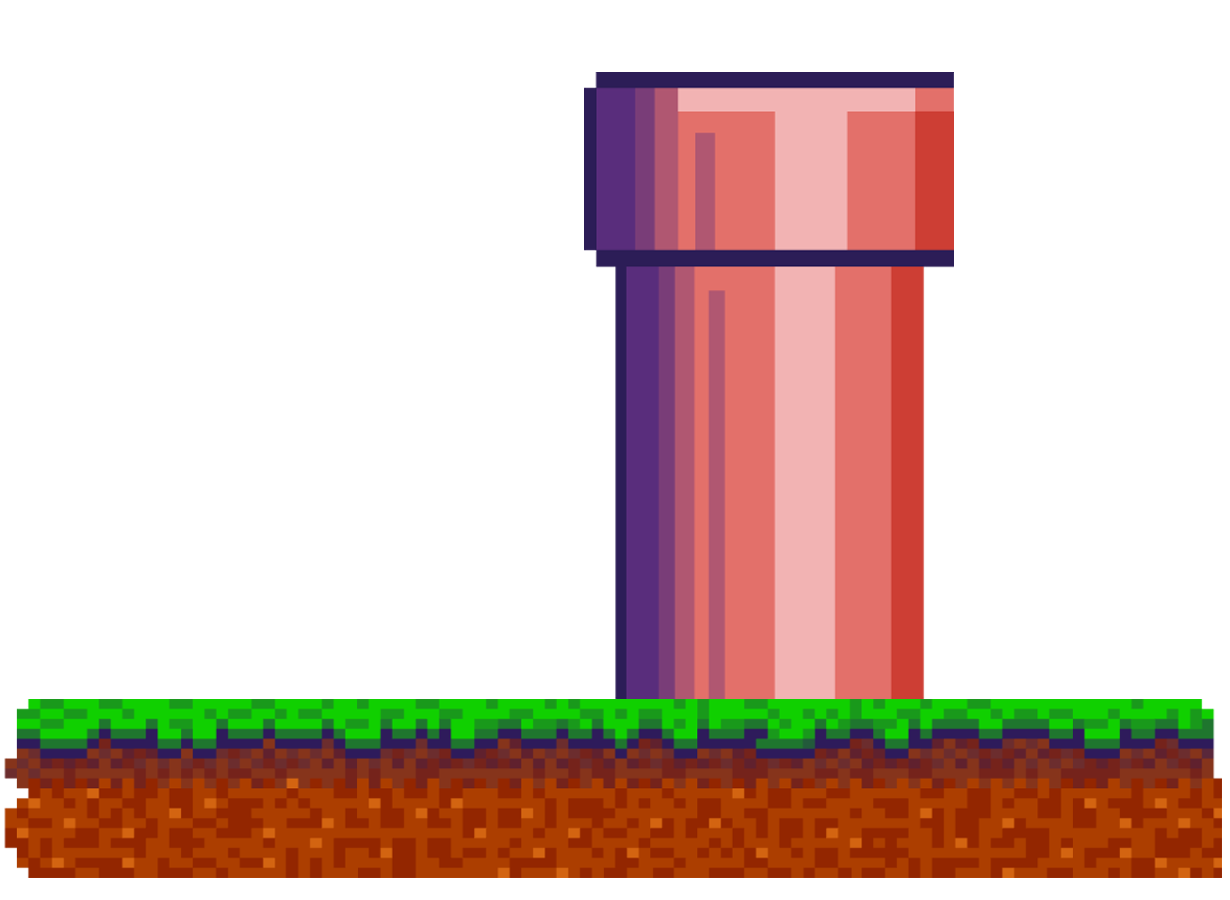
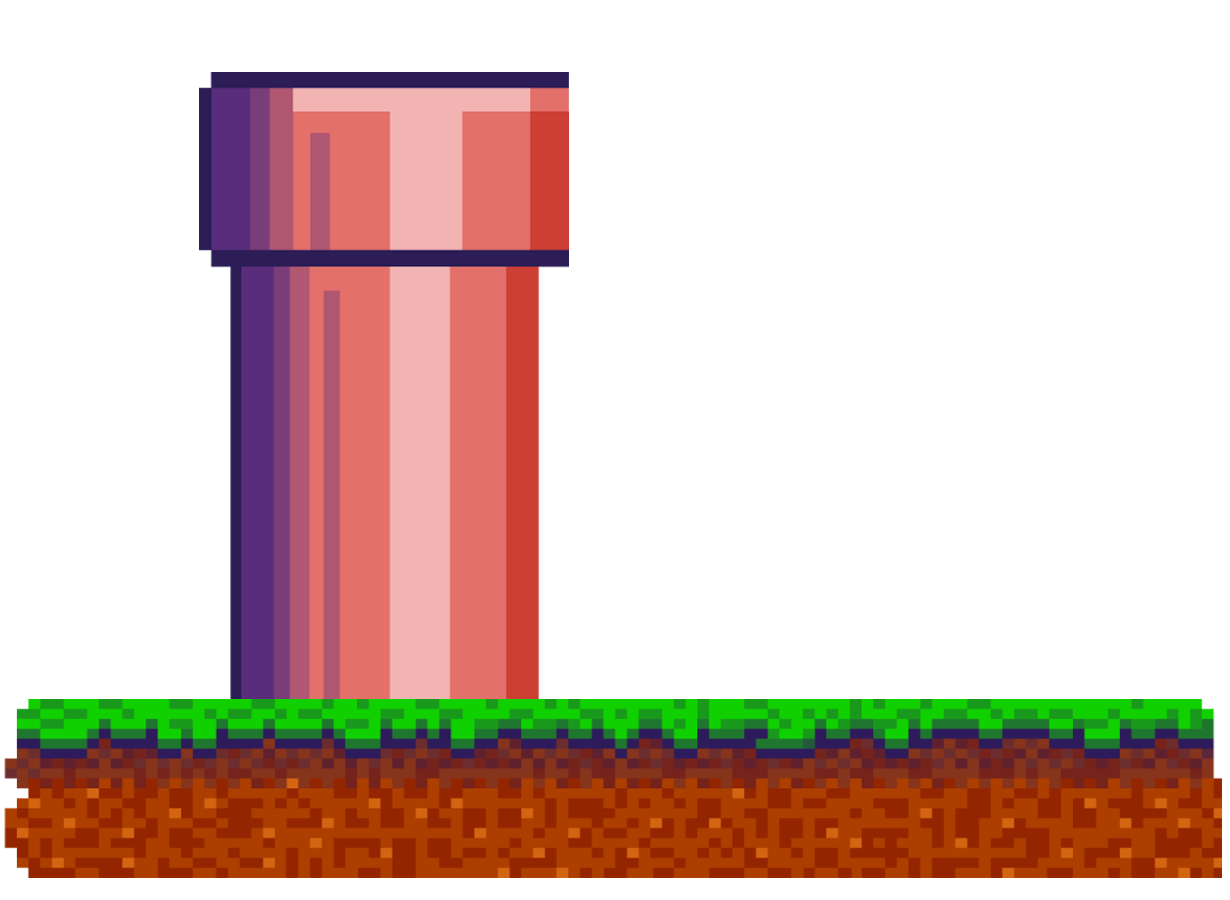
update: update css code for responsiveness

diff --git a/src/components/Footer/Footer.css b/src/components/Footer/Footer.css
@@ -1,22 +1,9 @@
-/* Common Styles */
-.daftar-button {
-    margin: 20px 15px;
-    padding-inline: 20px;
-    color: #3f5683;
-    font-family: ArcadeClassic;
-    font-size: 25px;
-    font-weight: 400;
-}
-
-.part-title {
-    text-align: center;
-}
-
-/* Footer Styles */
-.footer {
+footer {
     height: 100%;
     margin-top: 10rem;
 }
+
+/* style for pipe-grass image */
 
 .pipe-grass {
     margin-bottom: 20rem;
@@ -27,8 +14,8 @@
 
 .pipe-grass-img {
     position: absolute;
-    width: 50em;
-    margin-top: -12em;
+    width: 40em;
+    margin-top: -2em;
 }
 
 .pipe-grass-left {
@@ -36,12 +23,29 @@
     margin-left: 50px;
 }
 
+/* display setting for register button area */
 .register-btn-part {
     display: flex;
     justify-content: space-between;
     margin: 30px 0 10em 0;
 }
 
+/* register button */
+
+.daftar-btn-container {
+    margin-left: -25px;
+}
+.daftar-button {
+    margin: 20px 15px;
+    padding-inline: 20px;
+    color: #3f5683;
+    font-family: ArcadeClassic;
+    font-size: 25px;
+    font-weight: 400;
+
+}
+
+/* center for footer title */
 .footer-title {
     display: flex;
     justify-content: center;
@@ -52,6 +56,7 @@
     width: 400px;
 }
 
+/* font style for footer element */
 .footer-title span,
 .part-title {
     color: #fff;
@@ -63,27 +68,33 @@
     font-size: 45px;
 }
 
+/* style for arrow */
 .arrow {
     align-items: center;
     width: 115px;
+
 }
 
 .arrow-left {
     margin-right: 25px !important;
 }
 
+/* partner arean */
 .media-partner-content {
-    display: flex;
-    flex-direction: row;
     flex-wrap: wrap;
     gap: 10px;
 }
 
 .partner-logo {
-    margin: 10px;
-    width: 60px;
+    width: 80px;
+    padding: 5px;
 }
 
+.part-title {
+    text-align: center;
+}
+
+/* more info container for element like social media, media partner, contact person */
 .footer-more-info-container {
     display: flex;
     flex-wrap: wrap;
@@ -94,6 +105,7 @@
     margin-top: 20em;
 }
 
+/* for elements inside more info container */
 .media-partner-content,
 .contact-person-content,
 .social-media-content {
@@ -120,9 +132,10 @@ table {
     border-collapse: separate;
 }
 
+/* footer background */
 .footer-bottom-background {
     position: absolute;
-    width: 200vh;
+    width: 188vh;
     left: 0;
     height: 50%;
     background-color: rgb(177, 255, 254);
@@ -133,16 +146,20 @@ table {
     width: 200vh;
 }
 
-/* Responsive Styles */
-@media screen and (max-width: 470px) {
-    .arrow {
-        display: none;
-    }
+
+/* responsive screen */
+@media screen and (max-width:470px) {
 }
 
-@media screen and (max-width: 510px) {
-    .pipe-grass-img {
-        display: none;
+@media screen and (max-width:510px) {
+    .arrow {
+        margin-left: -1px !important;
+    }
+    .pipe-grass-left {
+        margin-left: -50px;
+    }
+    .pipe-grass-right {
+        margin-right: -50px;
     }
 
     .footer-bottom-background {
@@ -154,10 +171,10 @@ table {
     }
 }
 
-@media screen and (min-width: 667px) {
+
+@media screen and (min-width:667px) {
     .footer-more-info-container {
         justify-content: space-between;
-        text-align: unset;
     }
 }
 
@@ -175,9 +192,9 @@ table {
     .pipe-grass {
         justify-content: space-between;
     }
-
+    
     .pipe-grass-img {
-        margin-top: -2em;
+        margin-top: 0;
         width: 20em;
     }
 
@@ -187,6 +204,11 @@ table {
 
     .social-media-content table {
         font-size: 20px;
+    }
+
+    .media-partner-content {
+        display: flex;
+        align-items: center;
     }
 
     .daftar-button {
@@ -202,7 +224,7 @@ table {
     }
 
     .footer-more-info-container {
-        margin-top: -10em;
+        margin-top: 0em;
     }
 }
 
@@ -219,14 +241,9 @@ table {
     .social-media-content table {
         font-size: 25px;
     }
-
-    .partner-logo {
-        width: 50px;
-        padding: 10px;
-    }
 }
 
-@media screen and (min-width: 1296px) {
+@media screen and (min-width: 1200px) {
     .part-title {
         font-size: 40px;
     }
@@ -234,12 +251,6 @@ table {
     .footer-bottom-background {
         height: 40vh;
     }
-
-    .footer-more-info-container {
-        text-align: center;
-    }
-
-    .partner-logo {
-        width: 80px;
-    }
 }
+
+

diff --git a/src/components/Footer/Footer.jsx b/src/components/Footer/Footer.jsx
@@ -19,7 +19,7 @@ const Footer = () => {
 						<img src={pipeGrass} alt="" className="pipe-grass-img pipe-grass-left" />
 					</div>
 					<img src={rightArrow} className="arrow arrow-left" alt="" />
-					<div>
+					<div className="daftar-btn-container">
 						<a href="" className="daftar-btn-item">
 							<div className="pixel-corners--wrapper">
 								<div className="pixel-corners">
